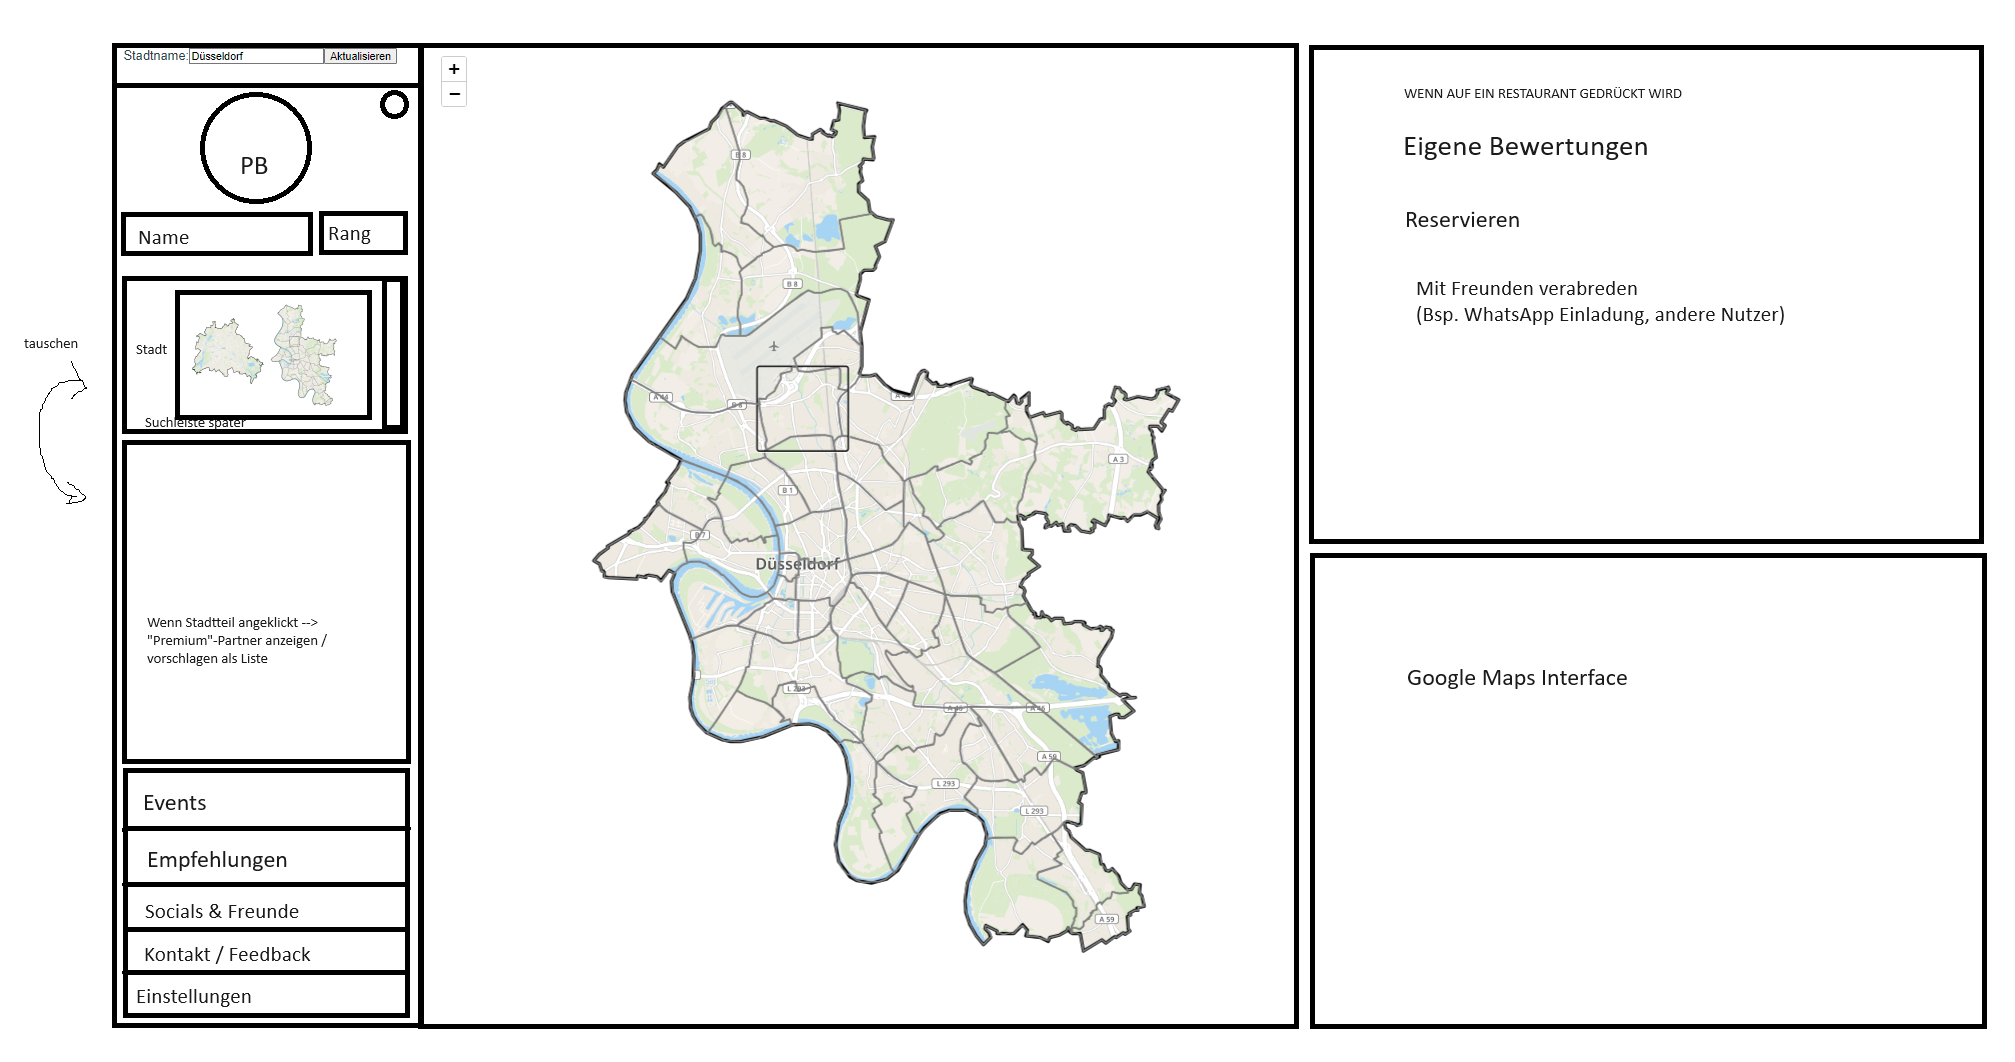
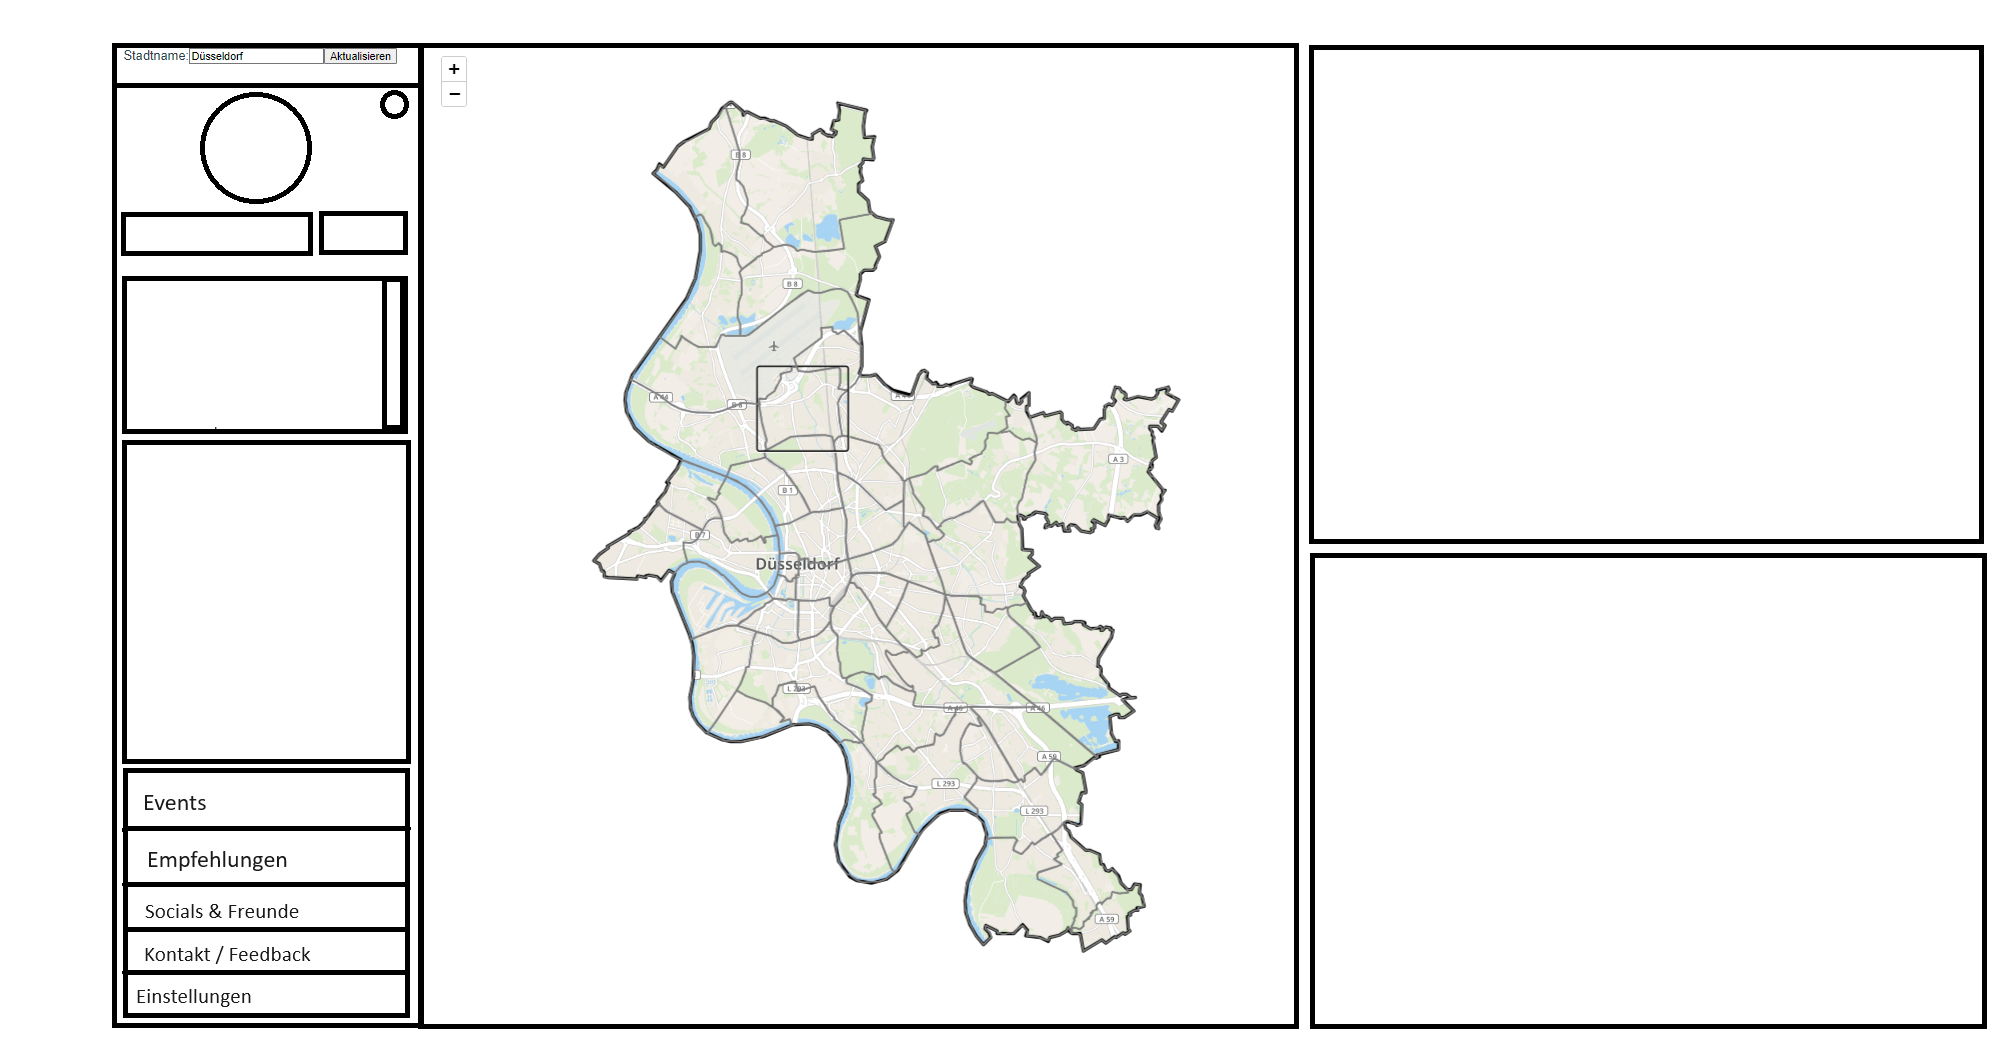
.

diff --git a/frontend/src/components/LeftSidebar.vue b/frontend/src/components/LeftSidebar.vue
@@ -1,0 +1,140 @@
+<template>
+  <div class="left-sidebar">
+    <!-- City Search at the top -->
+    <div class="city-search">
+      <CitySearch @update-coordinates="forwardUpdateCoordinates"/>
+    </div>
+
+    <!-- Profile image -->
+    <div class="profile-image">
+      <img src="../assets/profilePicture.png" alt="Profile Picture" />
+    </div>
+
+    <!-- Horizontal layout for "Benutzername" and "Rang" -->
+    <div class="horizontal-layout">
+      <div class="benutzername">
+        Benutzername
+      </div>
+      
+      <div class="rang">
+        Rang
+      </div>
+    </div>
+
+    <!-- Main content block for "Premium Partner" and "Karten" -->
+    <div class="main-content">
+      <div class="premium-partner">
+        Premium Partner
+      </div>
+      
+      <div class="karten">
+        Karten
+      </div>
+    </div>
+
+    <!-- Smaller sections with sub-items -->
+    <div class="smaller-sections">
+      <div class="events">Events</div>
+      <div class="recommendations">Empfehlungen</div>
+      <div class="socials">Socials & Freunde</div>
+      <div class="contact">Kontakt / Feedback</div>
+      <div class="settings">Einstellungen</div>
+    </div>
+  </div>
+</template>
+
+<script>
+import CitySearch from './CitySearch.vue';
+
+export default {
+  components: {
+    CitySearch,
+  },
+  methods: {
+    forwardUpdateCoordinates(data) {
+      // Forward the event to the parent component
+      this.$emit('update-coordinates', data);
+    },
+  },
+};
+</script>
+
+<style scoped>
+.left-sidebar {
+  display: flex;
+  flex-direction: column;
+  flex: 1;
+  border: 1px solid black;
+  padding: 10px;
+}
+
+.city-search {
+  padding-bottom: 30px;
+}
+
+.profile-image {
+  text-align: center;
+  margin-bottom: 10px;
+}
+
+.profile-image img {
+  width: 150px;
+  height: 150px;
+  border-radius: 50%;
+  padding-bottom: 10px;
+}
+
+.horizontal-layout {
+  display: flex;
+  flex-direction: row;
+  justify-content: space-between;
+  padding-bottom: 30px;
+}
+
+.benutzername {
+  /* Set to take up 3/5 of the width */
+  flex: 3;  /* 3/5 of the total flex space */
+  border: 1px solid black;
+  padding: 10px;
+  margin-right: 30px;
+}
+
+.rang {
+  /* Set to take up 2/5 of the width */
+  flex: 2;  /* 2/5 of the total flex space */
+  border: 1px solid black;
+  padding: 10px;
+}
+.main-content {
+  display: flex;
+  flex-direction: column;
+  flex: 1;
+}
+
+.premium-partner {
+  /* Set to take up 2/3 of the main content area */
+  flex: 2;  /* 2/3 of the total flex space */
+  border: 1px solid black;
+  padding: 10px;
+  margin-bottom: 10px;
+}
+
+.karten {
+  /* Set to take up 1/3 of the main content area */
+  flex: 1;  /* 1/3 of the total flex space */
+  border: 1px solid black;
+  padding: 10px;
+  margin-bottom: 10px;
+}
+
+.events {
+  /* Styles for the Events section */
+  padding: 10px;
+}
+
+
+.smaller-sections > div {
+  border: 1px solid black; 
+  padding: 10px;
+}
+</style>

diff --git a/frontend/src/components/CitySearch.vue b/frontend/src/components/CitySearch.vue
@@ -1,34 +1,44 @@
 <template>
-    <div id="city-search">
-      <form @submit.prevent="updateCoordinates">
-        <label for="cityName">Stadtname:</label>
-        <input type="text" id="cityName" v-model="cityName">
-        <button type="submit">Aktualisieren</button>
-      </form>
-    </div>
-  </template>
-  
-  <script>
-  export default {
-    data() {
-      return {
-        cityName: 'Düsseldorf'
-      };
-    },
-    methods: {
-      // Emit the update-coordinates event with the city name
-      updateCoordinates() {
-        this.$emit('update-coordinates', this.cityName);
-      }
+  <div id="city-search">
+    <form @submit.prevent="updateCoordinates">
+      <label for="cityName">Stadtname:</label>
+      <input type="text" id="cityName" v-model="cityName">
+      <button type="submit">Aktualisieren</button>
+    </form>
+  </div>
+</template>
+
+<script>
+export default {
+  data() {
+    return {
+      cityName: 'Düsseldorf'
+    };
+  },
+  methods: {
+    // Emit the update-coordinates event with the city name
+    updateCoordinates() {
+      this.$emit('update-coordinates', this.cityName);
     }
-  };
-  </script>
-  
-  <style scoped>
-  #city-search {
-    display: flex;
-    flex-direction: row;
-    align-items: top;
   }
-  </style>
-  
+};
+</script>
+
+<style scoped>
+#city-search {
+  display: flex;
+  flex-direction: row;
+  justify-content: flex-start; /* Aligns content to the right */
+}
+
+form {
+  display: flex;
+  flex-direction: row;
+  align-items: top;
+}
+
+input,
+button {
+  margin-left: 10px; /* Adds some space between elements */
+}
+</style>

diff --git a/frontend/src/App.vue b/frontend/src/App.vue
@@ -1,55 +1,32 @@
 <template>
   <div class="container">
-    <div class="component-wrapper">
-      <CitySearch @update-coordinates="updateCoordinates" />
-    </div>
-    <div class="component-wrapper city-map-wrapper">
-      <CityMap ref="cityMap" />
-    </div>
+    <left-sidebar @update-coordinates="handleUpdateCoordinates" />
+    <main-content ref="mainContent" />
+    <right-sidebar />
   </div>
 </template>
 
 <script>
-import CityMap from './components/CityMap.vue';
-import CitySearch from './components/CitySearch.vue';
+import LeftSidebar from './components/LeftSidebar.vue';
+import MainContent from './components/MainContent.vue';
+import RightSidebar from './components/RightSidebar.vue';
 
 export default {
-  name: 'App',
   components: {
-    CityMap,
-    CitySearch
+    LeftSidebar,
+    MainContent,
+    RightSidebar,
   },
   methods: {
-    updateCoordinates(cityName) {
-      // Call the updateCoordinates method of CityMap component
-      this.$refs.cityMap.updateCoordinates(cityName);
-    }
-  }
-}
+    handleUpdateCoordinates(data) {
+      this.$refs.mainContent.forwardUpdateCoordinates(data);
+    },
+  },
+};
 </script>
 
-<style>
-#app {
-  font-family: Avenir, Helvetica, Arial, sans-serif;
-  -webkit-font-smoothing: antialiased;
-  -moz-osx-font-smoothing: grayscale;
-  text-align: center;
-  color: #2c3e50;
-  margin-top: 10px;
-}
-
+<style scoped>
 .container {
   display: flex;
-  justify-content: space-between;
-}
-
-.component-wrapper {
-  border: 1px solid #ccc;
-  padding: 20px;
-  border-radius: 5px;
-}
-
-.city-map-wrapper {
-  flex: 1;
 }
 </style>

diff --git a/frontend/src/components/RightSidebar.vue b/frontend/src/components/RightSidebar.vue
@@ -1,0 +1,31 @@
+<template>
+    <div class="right-sidebar">
+      <div class="top-box">
+        Eigener Inhalt
+      </div>
+      <div class="bottom-box">
+        Google Maps Inhalt
+      </div>
+    </div>
+  </template>
+  
+  <script>
+  export default {};
+  </script>
+  
+  <style scoped>
+  .right-sidebar {
+    flex: 1;
+    display: flex;
+    flex-direction: column;
+    border: 1px solid black;
+  }
+  
+  .top-box,
+  .bottom-box {
+    flex: 1;
+    border: 1px solid black;
+    margin: 10px;
+  }
+  </style>
+  

diff --git a/frontend/src/components/MainContent.vue b/frontend/src/components/MainContent.vue
@@ -1,0 +1,28 @@
+<template>
+  <div class="main">
+    <city-map ref="cityMap"/>
+  </div>
+</template>
+
+<script>
+import CityMap from './CityMap.vue';
+
+export default {
+  components: {
+    CityMap,
+  },
+  methods: {
+    forwardUpdateCoordinates(cityName) {
+      this.$refs.cityMap.updateCoordinates(cityName);
+    },
+  },
+};
+</script>
+
+<style scoped>
+.main {
+  flex: 2;
+  border: 1px solid black;
+  padding: 10px;
+}
+</style>
